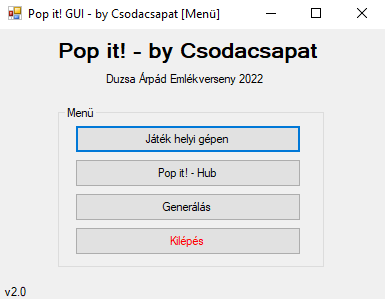
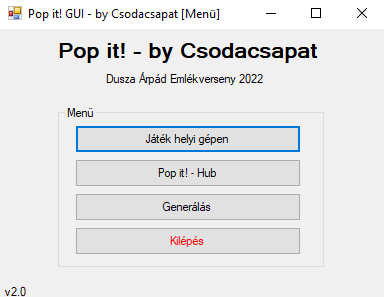
Bugfix, logger, doku

diff --git a/Pop_it_GUI/Pop_it_GUI/PalyaValasztoForm.cs b/Pop_it_GUI/Pop_it_GUI/PalyaValasztoForm.cs
@@ -19,13 +19,10 @@ namespace Pop_it_GUI
             PalyakBeolvasas();
         }
         static List<Palya> palyak = new List<Palya>();
+        public Logger logger = new Logger("logs.txt");
 
         public void PalyakBeolvasas()
         {
-            if (!Directory.Exists("palyak"))
-            {
-                Directory.CreateDirectory("palyak");
-            }
             string[] fajlok = Directory.GetFiles(@"palyak");
             int id = 0;
             foreach (var item in fajlok)
@@ -53,6 +50,7 @@ namespace Pop_it_GUI
             if(listbox_palyak.SelectedIndex < 0)
             {
                 MessageBox.Show("Kérjük válasszon pályát!");
+                logger.LogDebug("Kiválasztott pálya nélkül próbált játékot indítani.");
             } else
             {
                 JatekIndit();
@@ -92,6 +90,7 @@ namespace Pop_it_GUI
             }
             catch (Exception)
             {
+                logger.LogError("Hiba történt a pálya preview-jának kiírása közben.");
 
             }
         }

diff --git a/Pop_it_GUI/Pop_it_GUI/Form1.cs b/Pop_it_GUI/Pop_it_GUI/Form1.cs
@@ -3,6 +3,7 @@ using System.Collections.Generic;
 using System.ComponentModel;
 using System.Data;
 using System.Drawing;
+using System.IO;
 using System.Linq;
 using System.Text;
 using System.Threading.Tasks;
@@ -12,9 +13,15 @@ namespace Pop_it_GUI
 {
     public partial class Form1 : Form
     {
+        public Logger logger = new Logger("logs.txt");
         public Form1()
         {
             InitializeComponent();
+            if (!Directory.Exists("palyak"))
+            {
+                Directory.CreateDirectory("palyak");
+                logger.LogDebug($"Palyak mappa elkészítve");
+            }
         }
 
         private void btn_kilepes_Click(object sender, EventArgs e)

diff --git a/Pop_it_GUI/Pop_it_GUI/Hub.cs b/Pop_it_GUI/Pop_it_GUI/Hub.cs
@@ -51,6 +51,7 @@ namespace Pop_it_GUI
             {
                 MapObject file_name = (MapObject)lbox_onlinelist.SelectedItem;
                 client.DownloadFileAsync(new Uri((string)lbox_onlinelist.SelectedValue), $"./palyak/{file_name.MapName}.txt");
+                logger.LogDebug($"Letöltött pálya: {file_name.MapName}.txt");
             }
             catch (Exception ex)
             {
@@ -68,6 +69,7 @@ namespace Pop_it_GUI
         void client_DownloadFileCompleted(object sender, AsyncCompletedEventArgs e)
         {
             lbl_download_status.Text = "Letöltve!";
+            
         }
 
         private void btn_feltoltes_Click(object sender, EventArgs e)

diff --git a/Pop_it_GUI/Pop_it_GUI/Form1.Designer.cs b/Pop_it_GUI/Pop_it_GUI/Form1.Designer.cs
@@ -111,7 +111,7 @@ namespace Pop_it_GUI
             this.label2.Name = "label2";
             this.label2.Size = new System.Drawing.Size(164, 13);
             this.label2.TabIndex = 7;
-            this.label2.Text = "Duzsa Árpád Emlékverseny 2022";
+            this.label2.Text = "Dusza Árpád Emlékverseny 2022";
             // 
             // lbl_aktual_verzio
             // 

diff --git a/Pop_it_GUI/Pop_it_GUI/GeneralasForm.cs b/Pop_it_GUI/Pop_it_GUI/GeneralasForm.cs
@@ -113,6 +113,7 @@ namespace Pop_it_GUI
                     writer.WriteLine();
                 }
                 //writer.Close();
+                MessageBox.Show("A pálya mentése sikeres volt!");
             }
         }
 

diff --git a/Pop_it_GUI/Pop_it_GUI/Logger.cs b/Pop_it_GUI/Pop_it_GUI/Logger.cs
@@ -5,7 +5,6 @@ namespace Pop_it_GUI
     public class Logger
     {
         private string LogFile;
-
         public Logger(string File_name)
         {
             LogFile = File_name;
